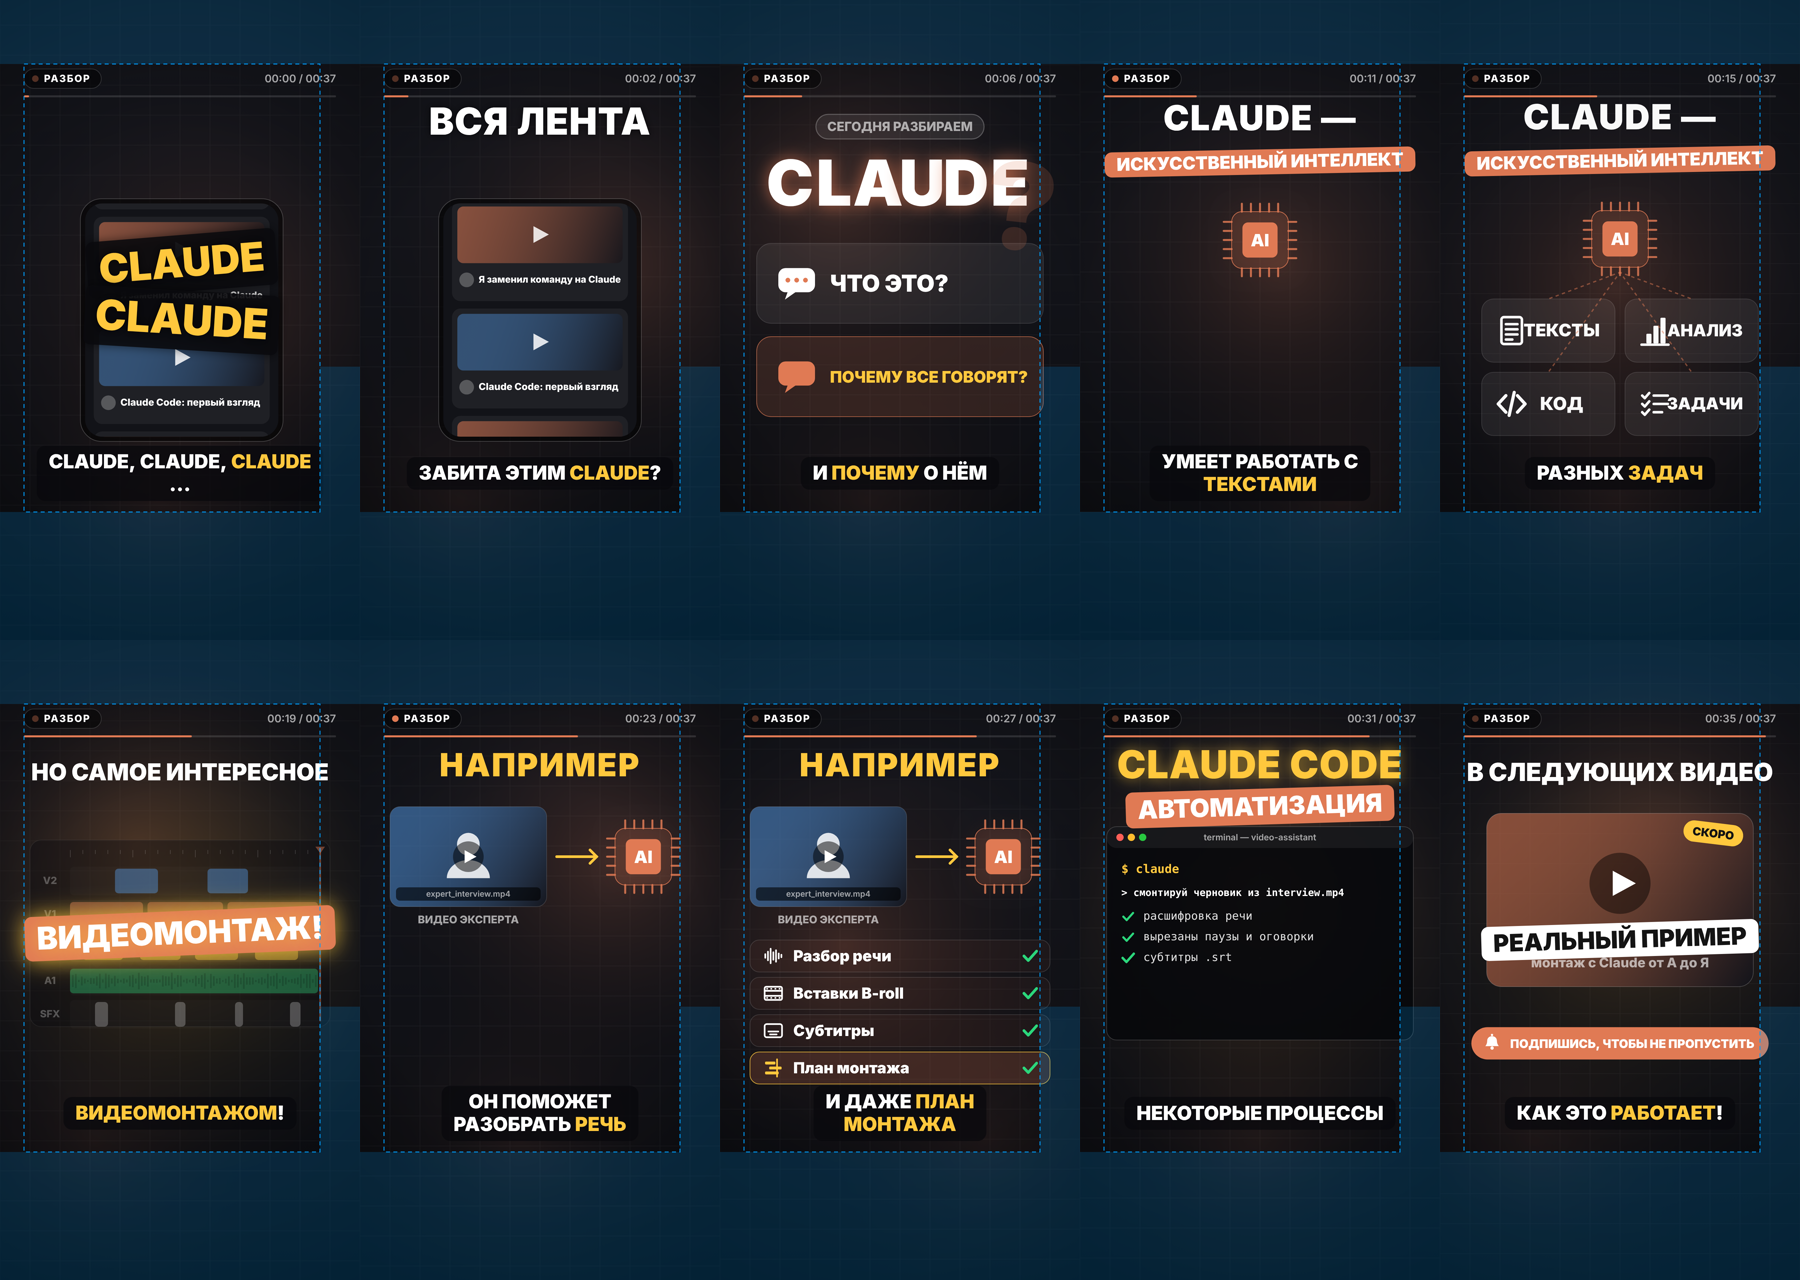
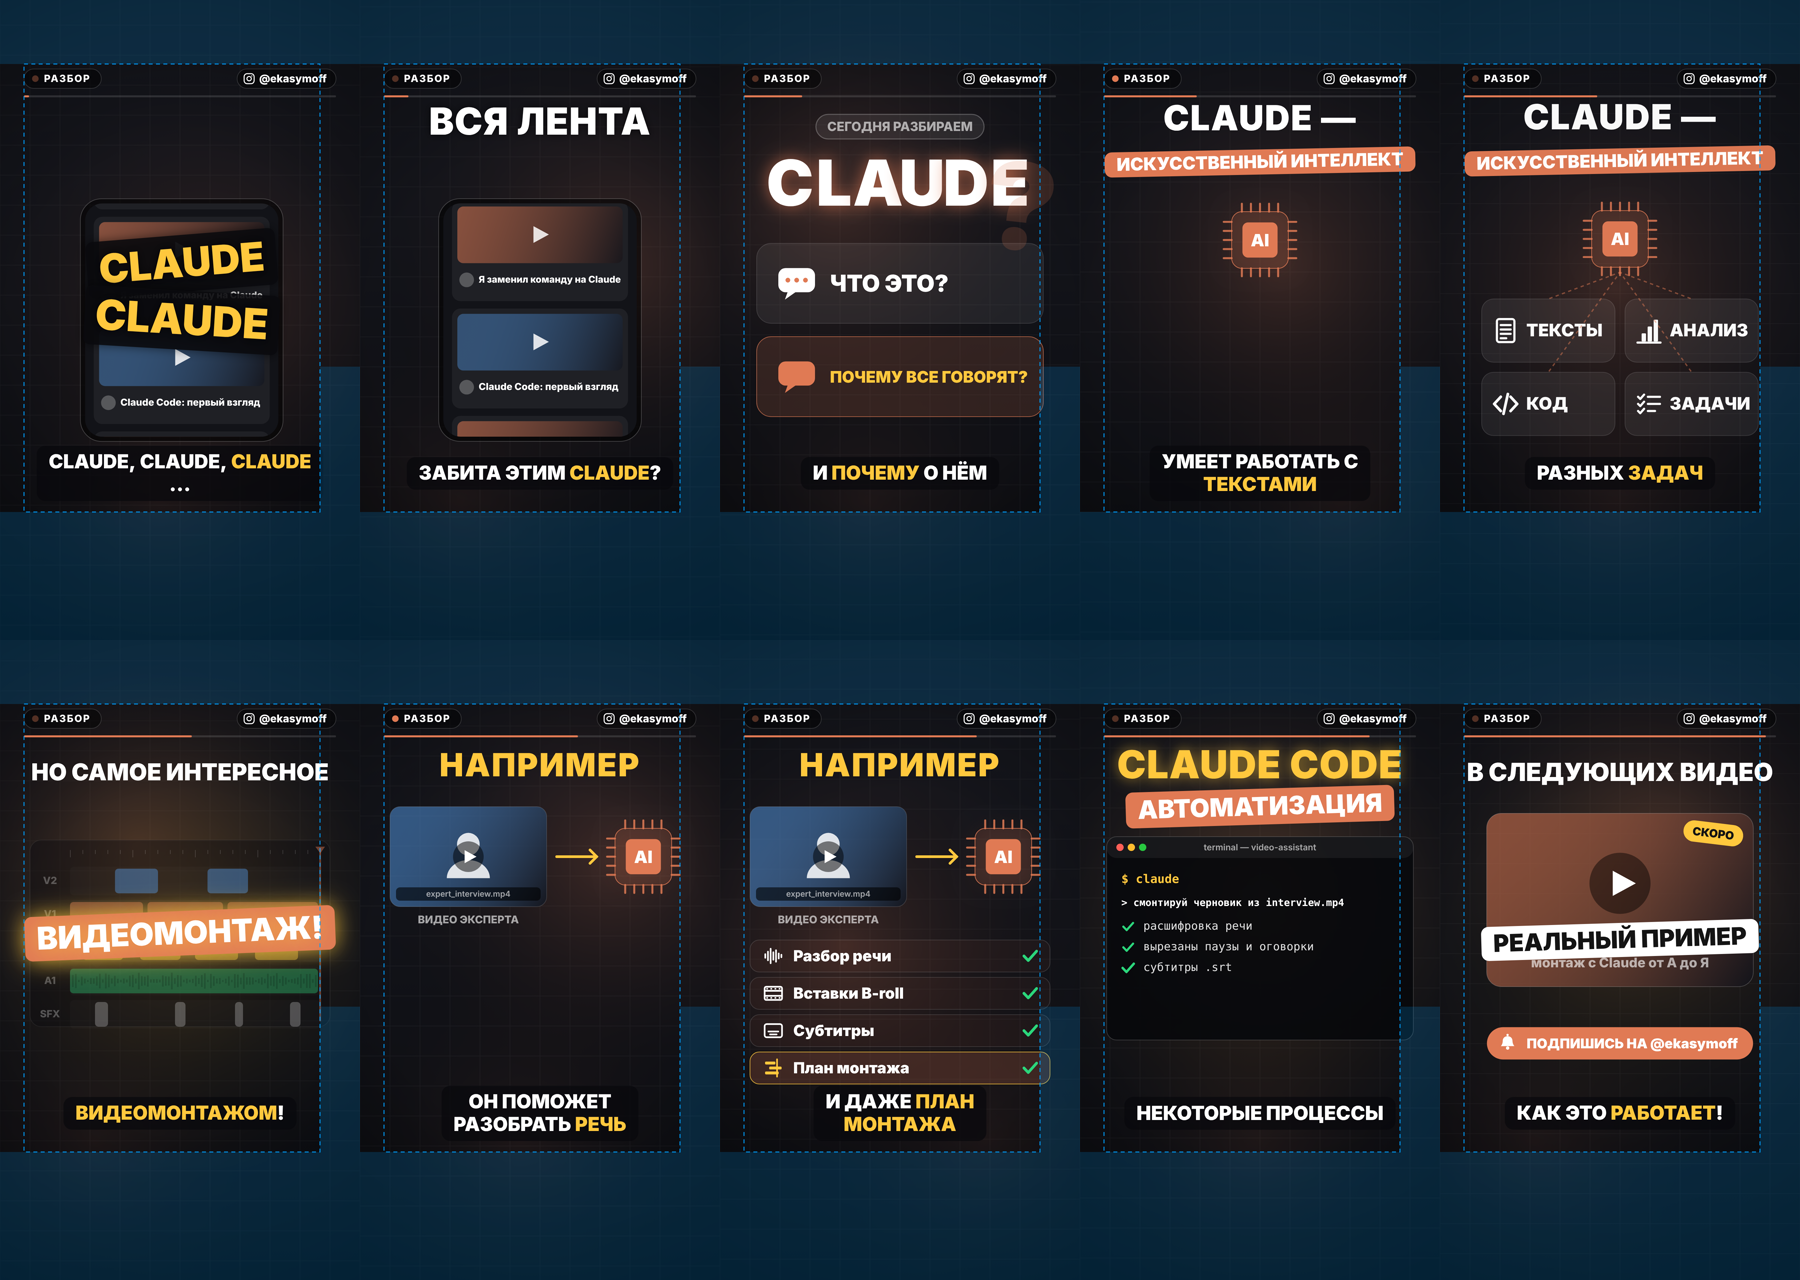
Approval-first workflow and @ekasymoff branding: handle in HUD on every frame, CTA mention; storyboard for approval
Claude-Session: https://claude.ai/code/session_01DihbjqA7bpga3sJnwwS7rf

diff --git a/projects/2026-11-19-claude-intro/render/src/layers/hud.js b/projects/2026-11-19-claude-intro/render/src/layers/hud.js
@@ -1,12 +1,37 @@
-import { VIDEO, SAFE, LAYOUT, COLORS, FONT } from '../../config/video.config.js';
+import { VIDEO, SAFE, LAYOUT, COLORS, FONT, BRAND } from '../../config/video.config.js';
 import { font, rrect } from '../lib/draw.js';
 import { prog, ease } from '../lib/easing.js';
 
-/** Плашка репортажа: ● РАЗБОР  00:12 / 00:37 + тонкий прогресс-бар. В верхней безопасной зоне. */
+/** Иконка Instagram (контур): скруглённый квадрат, круг, точка */
+function igIcon(ctx, cx, cy, s, color) {
+  ctx.save(); ctx.strokeStyle = color; ctx.fillStyle = color; ctx.lineWidth = s * 0.1;
+  rrect(ctx, cx - s / 2, cy - s / 2, s, s, s * 0.3); ctx.stroke();
+  ctx.beginPath(); ctx.arc(cx, cy, s * 0.22, 0, Math.PI * 2); ctx.stroke();
+  ctx.beginPath(); ctx.arc(cx + s * 0.27, cy - s * 0.27, s * 0.06, 0, Math.PI * 2); ctx.fill();
+  ctx.restore();
+}
+
+/** Плашка аккаунта автора — видна с первого до последнего кадра, правый верхний угол безопасной зоны */
+function drawHandle(ctx, y) {
+  ctx.save();
+  ctx.font = font(32, FONT.bold);
+  const tw = ctx.measureText(BRAND.handle).width;
+  const H = 58, W = tw + 94, x = VIDEO.width - SAFE.left - W;
+  rrect(ctx, x, y - H / 2, W, H, H / 2);
+  ctx.fillStyle = 'rgba(0,0,0,0.45)'; ctx.fill();
+  ctx.strokeStyle = 'rgba(255,255,255,0.16)'; ctx.lineWidth = 2; ctx.stroke();
+  igIcon(ctx, x + 36, y, 30, COLORS.white);
+  ctx.fillStyle = COLORS.white; ctx.textAlign = 'left'; ctx.textBaseline = 'middle';
+  ctx.fillText(BRAND.handle, x + 66, y + 1);
+  ctx.restore();
+}
+
+/** HUD: ● РАЗБОР слева, @аккаунт справа, тонкий прогресс-бар. В верхней безопасной зоне. */
 export function drawHud(ctx, t) {
+  const y = LAYOUT.hud;
+  drawHandle(ctx, y);                       // аккаунт — всегда, без анимации входа
   const a = ease.outCubic(prog(t, 0.25, 0.6));
   if (a <= 0) return;
-  const y = LAYOUT.hud;
   ctx.save();
   ctx.globalAlpha = a;
 
@@ -25,13 +50,6 @@ export function drawHud(ctx, t) {
   ctx.fillStyle = COLORS.white; ctx.textAlign = 'left'; ctx.textBaseline = 'middle';
   ctx.fillText(label, x + 60, y + 1);
   ctx.letterSpacing = '0px';
-
-  // таймер справа
-  const mmss = (s) => `00:${String(Math.min(VIDEO.duration, Math.floor(s))).padStart(2, '0')}`;
-  ctx.font = font(32, FONT.semi);
-  ctx.textAlign = 'right';
-  ctx.fillStyle = COLORS.muted;
-  ctx.fillText(`${mmss(t)} / ${mmss(VIDEO.duration)}`, VIDEO.width - SAFE.left, y + 1);
 
   // прогресс-бар на всю длину ролика
   const by = y + 50, bw = VIDEO.width - SAFE.left * 2;

diff --git a/projects/2026-11-19-claude-intro/render/config/timeline.config.js b/projects/2026-11-19-claude-intro/render/config/timeline.config.js
@@ -165,7 +165,7 @@ export const SCENES = [
     title: 'Финал: анонс + подписка',
     start: 32.8,
     end: 37.0,
-    onScreen: { head: 'В СЛЕДУЮЩИХ ВИДЕО', card: 'РЕАЛЬНЫЙ ПРИМЕР', sub: 'монтаж с Claude от А до Я', cta: 'ПОДПИШИСЬ, ЧТОБЫ НЕ ПРОПУСТИТЬ' },
+    onScreen: { head: 'В СЛЕДУЮЩИХ ВИДЕО', card: 'РЕАЛЬНЫЙ ПРИМЕР', sub: 'монтаж с Claude от А до Я', cta: 'ПОДПИШИСЬ НА @ekasymoff' },
     vo: {
       text: 'В следующих видео покажу на реальном примере, как это работает!',
       parts: [{ at: 32.88, tts: 'В следующих видео покажу на реальном примере, как это работает!' }],

diff --git a/projects/2026-11-19-claude-intro/render/config/video.config.js b/projects/2026-11-19-claude-intro/render/config/video.config.js
@@ -50,3 +50,9 @@ export const FONT = {
   bold: 800,
   semi: 600,
 };
+
+// Аккаунт автора: постоянно в правом верхнем углу (HUD) + упоминание в финальном CTA.
+export const BRAND = {
+  handle: '@ekasymoff',
+  platform: 'instagram',
+};

diff --git a/projects/2026-11-19-claude-intro/script.md b/projects/2026-11-19-claude-intro/script.md
@@ -13,6 +13,6 @@
 | 4 | 00:16–00:20.4 | **НО САМОЕ ИНТЕРЕСНОЕ** → **ВИДЕОМОНТАЖ!** | окно монтажки: дорожки V2/V1/T/A1/SFX собираются клипами, бежит плейхед; riser → стоп музыки → слэм «ВИДЕОМОНТАЖ!» на слове (19,30) + золотая вспышка, punch-in, тряска | Но самое интересное — с его помощью можно даже работать над видеомонтажом! |
 | 5 | 00:20.4–00:28 | **НАПРИМЕР** · ВИДЕО ЭКСПЕРТА → AI · Разбор речи / Вставки B-roll / Субтитры / План монтажа | карточка видео `expert_interview.mp4` → стрелка → ИИ-чип; 4 строки результата въезжают справа с галочкой точно на словах «речь», «вставки», «субтитры», «план» | Например, можно дать ему видео эксперта, и он поможет разобрать речь, подобрать подходящие вставки, субтитры и даже подготовить план монтажа. |
 | 6 | 00:28–00:32.8 | **CLAUDE CODE** · плашка **АВТОМАТИЗАЦИЯ** | терминал: печатается `$ claude` и задача «смонтируй черновик из interview.mp4», по очереди ✓ расшифровка / паузы / субтитры / рендер, зелёный прогресс-бар; плашка слэмом на «автоматизировать» (30,62) | А с помощью Claude Code можно пойти ещё дальше и автоматизировать некоторые процессы. |
-| 7 | 00:32.8–00:37 | **В СЛЕДУЮЩИХ ВИДЕО** · карточка «РЕАЛЬНЫЙ ПРИМЕР» + «СКОРО» · CTA «ПОДПИШИСЬ, ЧТОБЫ НЕ ПРОПУСТИТЬ» | карточка-превью с пульсирующей кнопкой play; плашка «РЕАЛЬНЫЙ ПРИМЕР» на слове «реальном»; CTA с пружиной и качающимся колокольчиком (35,55); затемнение 36,55–37,0 | В следующих видео покажу на реальном примере, как это работает! |
+| 7 | 00:32.8–00:37 | **В СЛЕДУЮЩИХ ВИДЕО** · карточка «РЕАЛЬНЫЙ ПРИМЕР» + «СКОРО» · CTA «ПОДПИШИСЬ НА @ekasymoff» | карточка-превью с пульсирующей кнопкой play; плашка «РЕАЛЬНЫЙ ПРИМЕР» на слове «реальном»; CTA с пружиной и качающимся колокольчиком (35,55); затемнение 36,55–37,0 | В следующих видео покажу на реальном примере, как это работает! |
 
-Постоянные элементы: плашка «● РАЗБОР» с таймером `00:xx / 00:37` и прогресс-бар (верх безопасной зоны); субтитры на Y=1420.
+Постоянные элементы: слева плашка «● РАЗБОР», **справа аккаунт Instagram @ekasymoff (виден с 1-го до последнего кадра)**, под ними прогресс-бар (верх безопасной зоны); субтитры на Y=1420.

diff --git a/CLAUDE.md b/CLAUDE.md
@@ -18,6 +18,19 @@
 - Пиши чётко, структурно и без воды: заголовки, списки, таблицы, таймкоды.
 - Никаких общих вступлений и пересказа задачи — сразу к результату.
 
+## Порядок работы: сначала согласование
+
+- **Финальный рендер не делать без согласования с автором.**
+- Этап 1 — пакет на согласование: сценарий, текст озвучки, раскадровка (контрольные кадры), превью голоса. Показать и ждать «ок» / правок.
+- Этап 2 — только после явного подтверждения: финальный рендер видео, сведение, публикационные файлы.
+
+## Брендинг автора (на всех видео)
+
+- Instagram: **@ekasymoff**.
+- Аккаунт **всё время** виден в углу кадра (правый верхний угол безопасной зоны, рядом с HUD), с первого до последнего кадра.
+- Аккаунт **упоминается** в финальном CTA (например «Подпишись на @ekasymoff»).
+- Не размещать в верхних ~10% и нижних ~20% кадра — там интерфейс Reels/TikTok.
+
 ## Сохранение результатов
 
 - Все готовые тексты, сценарии, субтитры и схемы звука сохраняй в папку `projects/`.

diff --git a/projects/2026-11-19-claude-intro/README.md b/projects/2026-11-19-claude-intro/README.md
@@ -3,7 +3,17 @@
 Разбор без лица в кадре, в стиле ролика Kaspi Alaqan: тёмный фон с сеткой, слэм-заголовки, карточки, плашка «● РАЗБОР» с таймером, жёлтые акценты в субтитрах, SFX точно на ударных словах.
 1080×1920 · 30 или 60 fps · ровно 37,0 с · H.264 + AAC · −14 LUFS, true peak −1 dBTP.
 
-## Готовые файлы
+## Статус: на согласовании
+
+Финальный рендер — после твоего «ок». Что проверить:
+- [ ] сценарий и экранный текст — `script.md`
+- [ ] озвучка — `storyboard/audio-preview.mp3`, текст — `voiceover.md`
+- [ ] раскадровка — `storyboard/storyboard.png`
+- [ ] аккаунт **@ekasymoff** в правом верхнем углу весь ролик + CTA «ПОДПИШИСЬ НА @ekasymoff»
+
+Файлы в `render/out/` — черновой рендер v1, сделан до согласования и **без аккаунта**; после «ок» будут перерендерены.
+
+## Файлы
 
 | Файл | Что это |
 |---|---|

diff --git a/projects/2026-11-19-claude-intro/edit-plan.md b/projects/2026-11-19-claude-intro/edit-plan.md
@@ -7,7 +7,7 @@
 | Зона | Y, px | Что там |
 |---|---|---|
 | верх 0–192 (10%) | — | **пусто**: статус-бар и ник |
-| 236 | HUD | «● РАЗБОР», таймер `00:xx / 00:37`, прогресс-бар |
+| 236 | HUD | слева «● РАЗБОР», справа **@ekasymoff** (весь ролик), прогресс-бар |
 | 330–560 | заголовки | экранный текст сцены + акцентная плашка |
 | 560–1340 | сцена | лента, чип, карточки, монтажка, терминал |
 | 1420 | субтитры | плашка 3–5 слов |
